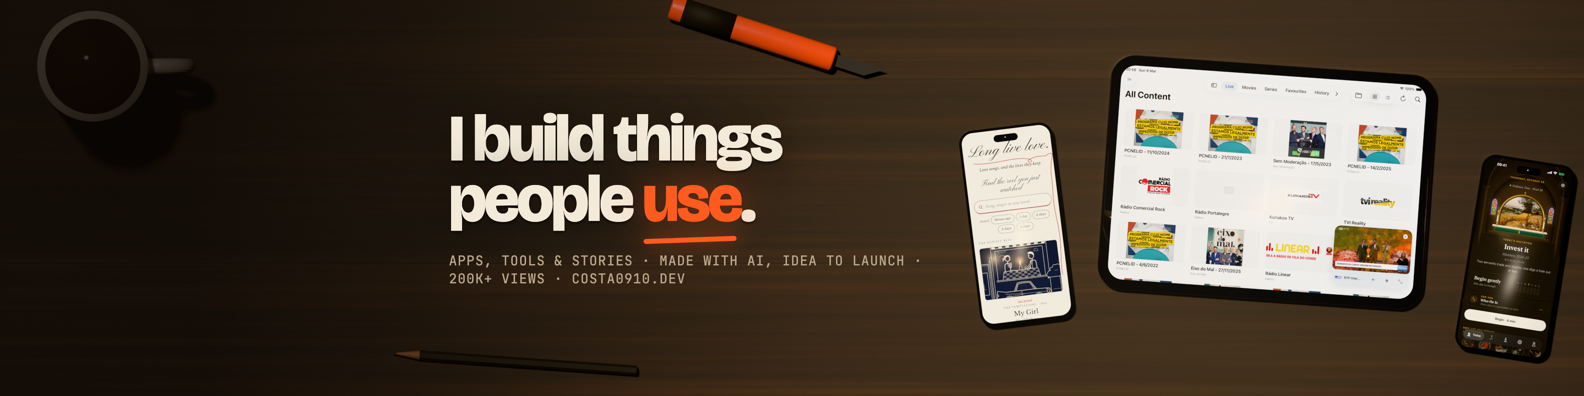
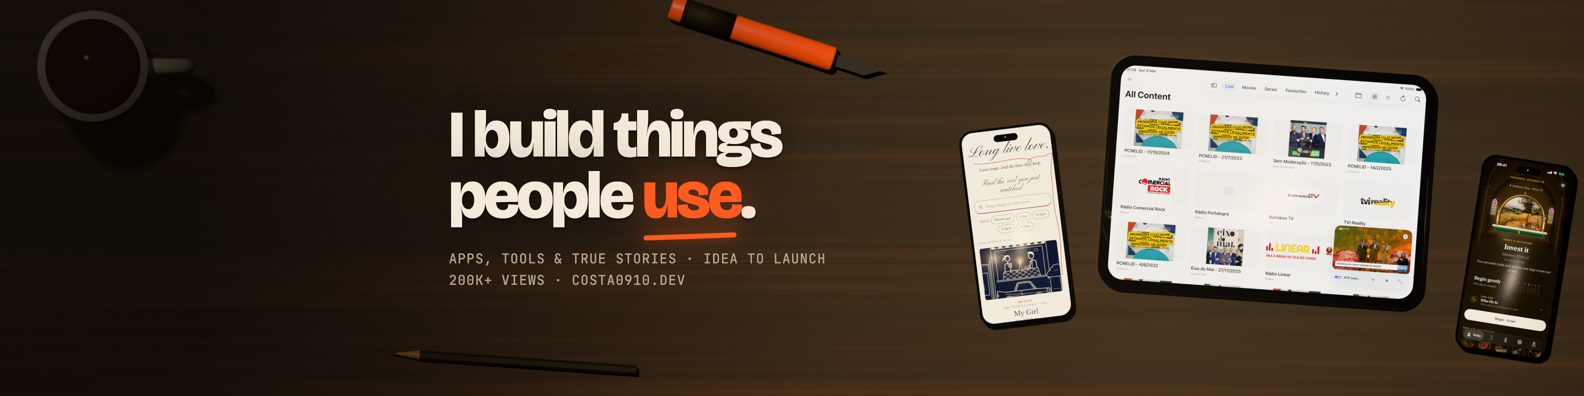
Profile: true stories, AI as helper

Changed region(s): [[0.2784, 0.4545, 0.5878, 0.7273], [0.2784, 0.2727, 0.4949, 0.4242], [0.2784, 0.2727, 0.3093, 0.303]]

diff --git a/README.md b/README.md
@@ -1,16 +1,16 @@
 <a href="https://costa0910.dev"><img src="banner.png" alt="Armando Costa: I build things people use."></a>
 
-I build things people use, alone, with AI, from the first idea to launch.
+I build things people use, from the first idea to launch.
 
 ### Shipped
 
-- **Long Live Love**: real love stories left under old songs, retold in 30-second ink drawings. 180K+ views in the first week. [longlivelove.app](https://longlivelove.app)
+- **Long Live Love**: true love stories people left under old songs, retold in 30-second ink drawings. 180K+ views in the first week. [longlivelove.app](https://longlivelove.app)
 - **Christian Practice**: one teaching of Jesus and one small thing to do with it, every day. On the App Store in four languages, 10K+ views on its channels. [App Store](https://apps.apple.com/app/id6819331701)
 - **Djubi Player**: a TV player for your own playlists, native on Mac, iPhone and iPad. About 2,000 downloads. [App Store](https://apps.apple.com/app/id6763816344) · [code](https://github.com/Costa0910/djubi-player)
 - **Snag**: save music from the web, tag it, and send it to your phone. A signed, open-source Mac app. [code](https://github.com/Costa0910/Snag)
 
 ### On the bench
 
-Always something. The newest work, without names until launch day: [costa0910.dev](https://costa0910.dev)
+Always something new. See what I'm making now at [costa0910.dev](https://costa0910.dev)
 
 Open to collaborations, problems worth solving, or the right role. [Write to me](https://costa0910.dev/#talk) · [LinkedIn](https://www.linkedin.com/in/costa0910/)
